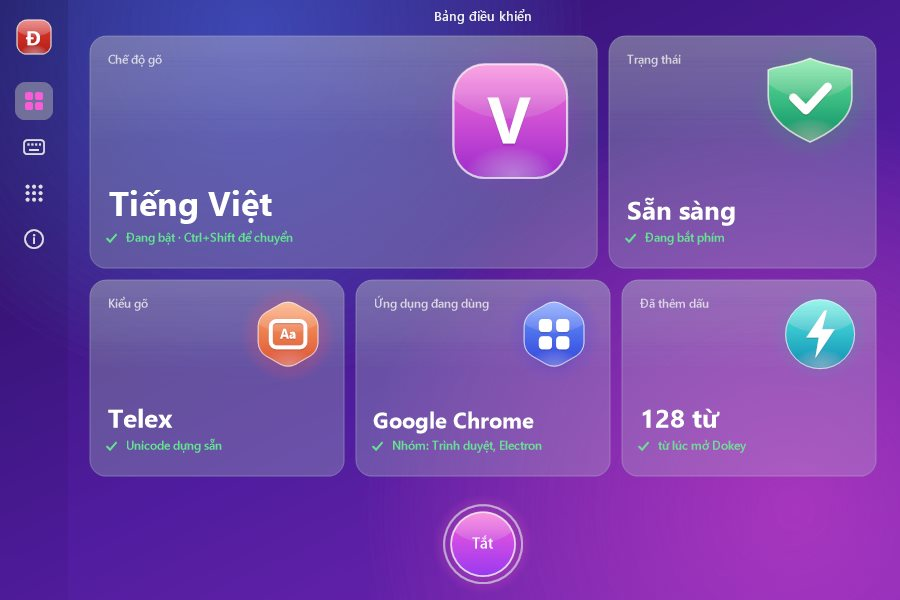
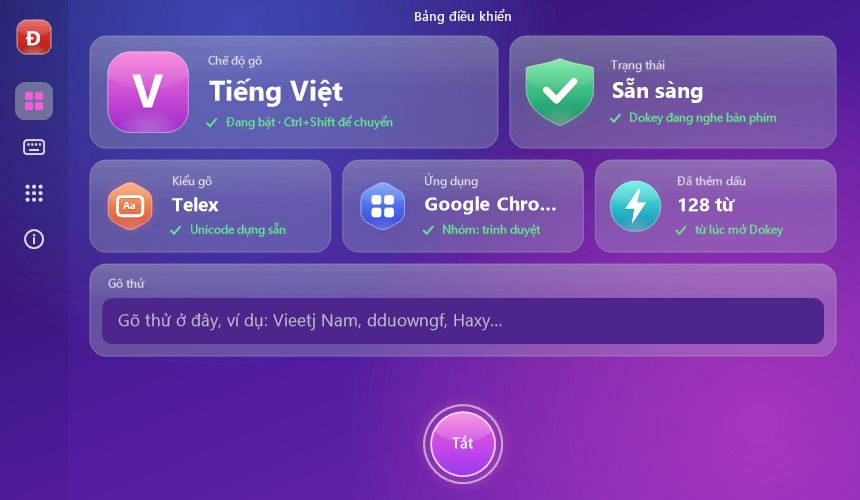
Windows panel: refreshed screenshot; avoid C4310 warning

diff --git a/apps/windows/src/panel.cpp b/apps/windows/src/panel.cpp
@@ -560,7 +560,7 @@ void DrawDashboard(Graphics& g, const RectF& c, const PanelStatus& st) {
     const RectF well = TryWell();
     GraphicsPath wellPath;
     AddRoundRect(wellPath, well, 10);
-    SolidBrush wellBrush(Rgb(GetRValue(kWellColor), GetGValue(kWellColor), GetBValue(kWellColor)));
+    SolidBrush wellBrush(Rgb(kWellColor & 0xFF, (kWellColor >> 8) & 0xFF, (kWellColor >> 16) & 0xFF));
     g.FillPath(&wellBrush, &wellPath);
     if (!g_tryEdit) {  // rendering to a file: no edit box, show its placeholder
         Label(g, kTryPlaceholder, RectF(well.X + 14, well.Y, well.Width - 28, well.Height), 17, Weight::Regular,
